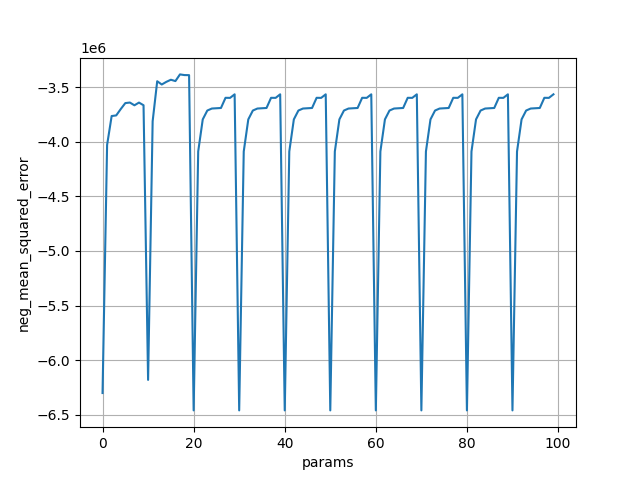
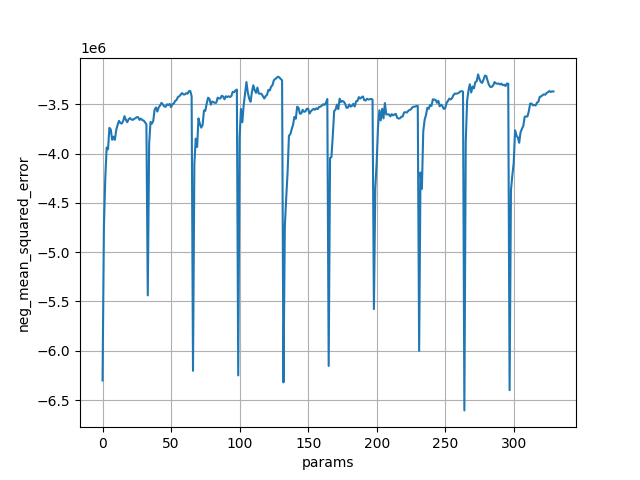
main-RF with evaluation

diff --git a/src/models/random_forest.py b/src/models/random_forest.py
@@ -36,11 +36,9 @@ def performGridSearch(X_train, y_train, param_grid, create_Plot = False, dataset
     return gs.best_params_
 
 def evaluatePerformanceOnCV(X_train: np.ndarray, y_train: np.ndarray, best_params: dict, datasetSuffix: str):
-    #TODO: perform cross validation on 3 folds and average the results, print (use printPerformance) the results to stdout and 
-    # then store them to logs/, visually inspect the results and rerun final training with best params and best dataset
-
     # 3-fold cross validation
-    results = []
+    results_mse = []
+    results_mae = []
     for train_index, test_index in ms.KFold(n_splits=3, shuffle=True, random_state=RANDOM_SEED).split(X_train):
         X_train_fold, X_val_fold = X_train[train_index], X_train[test_index]
         y_train_fold, y_val_fold = y_train[train_index], y_train[test_index]
@@ -52,11 +50,14 @@ def evaluatePerformanceOnCV(X_train: np.ndarray, y_train: np.ndarray, best_param
         # evaluate model
         y_pred = rf.predict(X_val_fold)
         mse = metrics.mean_squared_error(y_val_fold, y_pred)
-        results.append(mse)
+        mae = metrics.mean_absolute_error(y_val_fold, y_pred)
+        results_mse.append(mse)
+        results_mae.append(mae)
     
     # average results
-    avg_mse = np.mean(results)
-    print(f'{datasetSuffix} avg mse: ', avg_mse)
+    avg_mse = np.mean(results_mse)
+    avg_mae = np.mean(results_mae)
+    print(f'{datasetSuffix} average MSE: {avg_mse}, average MEA: {avg_mae}', )
 
 def plotBestParams(X_train: np.ndarray, y_train: np.ndarray):
     # param: max_features, best params: {'max_features': 21}
@@ -115,29 +116,19 @@ def print_index_of_origin_column(ft_imp, n):
     print('column index of   origin by order:            ', sorted(feature_column_idx))
     print('column index of   origin by order     unique: ', sorted(set(feature_column_idx)))
 
-def printPerformance(rf: RandomForestRegressor, X_test, y_test, columns: list):
-    n = rf.max_features
-    ft_imp = pd.Series(rf.feature_importances_, index=X_columns).sort_values(ascending=False)
-    feature_column_idx = [list(columns).index(feature) if feature in columns else None for feature in ft_imp[:n].index]
-    print(pd.DataFrame({
-        'pos':range(1, n+1),
-        'feature importance':ft_imp.head(n).round(3),
-        'column_index': feature_column_idx
-        }))
-    
-    print('column index of features by relevance: ', feature_column_idx[:n])
-    print('column index of features by order:     ', sorted(feature_column_idx[:n]))
-    print_index_of_origin_column(ft_imp, n)
-    
+def printPerformance(rf: RandomForestRegressor, X_test, y_test):
     y_pred = rf.predict(X_test)
     y_true = y_test
     print()
-    print('Accuracy:                                {:16.3f}'.format(rf.score(X_test, y_test)))
+    print('Performance of the best model on the test set:')
+    print('  Accuracy:                                {:16.3f}'.format(rf.score(X_test, y_test)))
     print()
-    print('Mean Squared Error (MSE):                {:16.2f}'.format(metrics.mean_squared_error(y_true, y_pred)))
-    print('Root Mean Squared Error (RMSE):          {:16.2f}'.format(metrics.mean_squared_error(y_true, y_pred, squared=False)))
-    print('Mean Absolute Error (MAE):               {:16.2f}'.format(metrics.mean_absolute_error(y_true, y_pred)))
-    print('R^2:                                     {:16.3f}'.format(metrics.r2_score(y_true, y_pred)))
+    print('  Mean Squared Error (MSE):                {:16.2f}'.format(metrics.mean_squared_error(y_true, y_pred)))
+    print('  Root Mean Squared Error (RMSE):          {:16.2f}'.format(metrics.mean_squared_error(y_true, y_pred, squared=False)))
+    print('  Mean Absolute Error (MAE):               {:16.2f}'.format(metrics.mean_absolute_error(y_true, y_pred)))
+    print('  R^2:                                     {:16.3f}'.format(metrics.r2_score(y_true, y_pred)))
+
+    return y_pred
     
 if __name__ == "__main__":
     os.makedirs("plots", exist_ok=True)
@@ -169,44 +160,43 @@ if __name__ == "__main__":
     X_test_mixed = test_mixed.drop(columns=target_columns).to_numpy()
     y_test_mixed = test_mixed[target_columns].to_numpy()
 
-    # TODO: specify meaningful parameter grid
     param_grid = {
-        'max_features': list(range(1, 101, 10)),
-        'n_estimators': list(range(1, 101, 10)),
+        'max_features': list(range(1, 11, 1)),
+        'n_estimators': list(range(1, 100, 3)),
     }
 
     # grid search and cross validation evaluation on all columns
     best_parameters = performGridSearch(X_train_mean, y_train_mean, param_grid, create_Plot=True, datasetSuffix='mean')
-    evaluatePerformanceOnCV(X_train_mean, y_train_mean, best_parameters, datasetSuffix='mean')
+    evaluatePerformanceOnCV(X_train_mean, y_train_mean, best_parameters, datasetSuffix='mean all columns')
     best_parameters = performGridSearch(X_train_median, y_train_median, param_grid, create_Plot=True, datasetSuffix='median')
-    evaluatePerformanceOnCV(X_train_median, y_train_median, best_parameters, datasetSuffix='median')
+    evaluatePerformanceOnCV(X_train_median, y_train_median, best_parameters, datasetSuffix='median all columns')
     best_parameters = performGridSearch(X_train_mixed, y_train_mixed, param_grid, create_Plot=True, datasetSuffix='mixed')
-    evaluatePerformanceOnCV(X_train_mixed, y_train_mixed, best_parameters, datasetSuffix='mixed')
+    evaluatePerformanceOnCV(X_train_mixed, y_train_mixed, best_parameters, datasetSuffix='mixed all columns')
 
     # grid search and cross validation evaluation on selected columns
-    selected_columns = ["CWUR_score", "Estimated_cost_of_living_per_year_(in_pounds)", "Minimum_IELTS_score",
-                        "Student_satisfaction", "UK_rank", "World_rank", "Student_enrollment_from", "Student_enrollment_to", 
-                        "International_students", "Academic_staff_from", "Academic_staff_to"]
-    X_train_mean = train_mean[selected_columns].to_numpy()
+    continuous_columns = ["CWUR_score", "Estimated_cost_of_living_per_year_(in_pounds)", "Minimum_IELTS_score",
+                          "Student_satisfaction", "UK_rank", "World_rank", "Student_enrollment_from", "Student_enrollment_to", 
+                          "International_students", "Academic_staff_from", "Academic_staff_to"]
+    X_train_mean = train_mean[continuous_columns].to_numpy()
     y_train_mean = train_mean[target_columns].to_numpy()
-    X_train_median = train_median[selected_columns].to_numpy()
+    X_train_median = train_median[continuous_columns].to_numpy()
     y_train_median = train_median[target_columns].to_numpy()
-    X_train_mixed = train_mixed[selected_columns].to_numpy()
+    X_train_mixed = train_mixed[continuous_columns].to_numpy()
     y_train_mixed = train_mixed[target_columns].to_numpy()
 
-    X_test_mean = test_mean[selected_columns].to_numpy()
+    X_test_mean = test_mean[continuous_columns].to_numpy()
     y_test_mean = test_mean[target_columns].to_numpy()
-    X_test_median = test_median[selected_columns].to_numpy()
+    X_test_median = test_median[continuous_columns].to_numpy()
     y_test_median = test_median[target_columns].to_numpy()
-    X_test_mixed = test_mixed[selected_columns].to_numpy()
+    X_test_mixed = test_mixed[continuous_columns].to_numpy()
     y_test_mixed = test_mixed[target_columns].to_numpy()
 
-    best_parameters = performGridSearch(X_train_mean, y_train_mean, param_grid, create_Plot=True, datasetSuffix='mean_selected')
-    evaluatePerformanceOnCV(X_train_mean, y_train_mean, best_parameters, datasetSuffix='mean_selected')
-    best_parameters = performGridSearch(X_train_median, y_train_median, param_grid, create_Plot=True, datasetSuffix='median_selected')
-    evaluatePerformanceOnCV(X_train_median, y_train_median, best_parameters, datasetSuffix='median_selected')
-    best_parameters = performGridSearch(X_train_mixed, y_train_mixed, param_grid, create_Plot=True, datasetSuffix='mixed_selected')
-    evaluatePerformanceOnCV(X_train_mixed, y_train_mixed, best_parameters, datasetSuffix='mixed_selected')
+    best_parameters = performGridSearch(X_train_mean, y_train_mean, param_grid, create_Plot=True, datasetSuffix='mean_continuous')
+    evaluatePerformanceOnCV(X_train_mean, y_train_mean, best_parameters, datasetSuffix='mean continuous columns')
+    best_parameters = performGridSearch(X_train_median, y_train_median, param_grid, create_Plot=True, datasetSuffix='median_continuous')
+    evaluatePerformanceOnCV(X_train_median, y_train_median, best_parameters, datasetSuffix='median continuous columns')
+    best_parameters = performGridSearch(X_train_mixed, y_train_mixed, param_grid, create_Plot=True, datasetSuffix='mixed_continuous')
+    evaluatePerformanceOnCV(X_train_mixed, y_train_mixed, best_parameters, datasetSuffix='mixed continuous columns')
 
     # grid search and cross validation evaluation on selected columns
     selected_columns = ["UK_rank", "World_rank", "CWUR_score", "Minimum_IELTS_score", "International_students", 
@@ -226,30 +216,32 @@ if __name__ == "__main__":
     X_test_mixed = test_mixed[selected_columns].to_numpy()
     y_test_mixed = test_mixed[target_columns].to_numpy()
 
-    best_parameters = performGridSearch(X_train_mean, y_train_mean, param_grid, create_Plot=True, datasetSuffix='mean_corr')
-    evaluatePerformanceOnCV(X_train_mean, y_train_mean, best_parameters, datasetSuffix='mean_corr')
-    best_parameters = performGridSearch(X_train_median, y_train_median, param_grid, create_Plot=True, datasetSuffix='median_corr')
-    evaluatePerformanceOnCV(X_train_median, y_train_median, best_parameters, datasetSuffix='median_corr')
-    best_parameters = performGridSearch(X_train_mixed, y_train_mixed, param_grid, create_Plot=True, datasetSuffix='mixed_corr')
-    evaluatePerformanceOnCV(X_train_mixed, y_train_mixed, best_parameters, datasetSuffix='mixed_corr')
-
-    # TODO: find the best parameters and best dataset and perform the final training and evaluation
+    best_parameters = performGridSearch(X_train_mean, y_train_mean, param_grid, create_Plot=True, datasetSuffix='mean_selected')
+    evaluatePerformanceOnCV(X_train_mean, y_train_mean, best_parameters, datasetSuffix='mean selected columns')
+    best_parameters = performGridSearch(X_train_median, y_train_median, param_grid, create_Plot=True, datasetSuffix='median_selected')
+    evaluatePerformanceOnCV(X_train_median, y_train_median, best_parameters, datasetSuffix='median selected columns')
+    best_parameters = performGridSearch(X_train_mixed, y_train_mixed, param_grid, create_Plot=True, datasetSuffix='mixed_selected')
+    evaluatePerformanceOnCV(X_train_mixed, y_train_mixed, best_parameters, datasetSuffix='mixed selected columns')
 
 
-    ## best params: {'max_features': 8}
-    ## best params: {'n_estimators': 29}
-    ## best params: {'max_features': 17, 'n_estimators': 37}
-    #plotBestParams(X_train, y_train)
-    #
-    #rf = RandomForestRegressor(max_features=10, n_estimators=80)
-    #rf.fit(X_train, y_train)
-#
-    #y_pred = rf.predict(X_test)
-    #printPerformance(rf, X_test, y_test, columns)
-#
-    ## crate a data frame with the results of the selected model
-    #predicted_truth = pd.DataFrame({"predicted UG_average_fees_(in_pounds)": y_pred[:, 0], "predicted PG_average_fees_(in_pounds)": y_pred[:, 1],
-    #                                "truth UG_average_fees_(in_pounds)": y_test[:, 0], "truth PG_average_fees_(in_pounds)": y_test[:, 1]})
-    #
-    ## print(predicted_truth)
-    #predicted_truth.to_csv("results/RF_predicted_truth.csv", index=False)
+    X_train_mixed = train_mixed[continuous_columns].to_numpy()
+    y_train_mixed = train_mixed[target_columns].to_numpy()
+    X_test_mixed = test_mixed[continuous_columns].to_numpy()
+    y_test_mixed = test_mixed[target_columns].to_numpy()
+
+    # fit RF with best parameters found during cross validation
+    rf = RandomForestRegressor(random_state=RANDOM_SEED, max_features=3, n_estimators=82)
+    rf.fit(X_train_mixed, y_train_mixed)
+
+    # evaluate performance on test set
+    y_pred = printPerformance(rf, X_test_mixed, y_test_mixed)
+
+    # crate a data frame with the results of the selected model
+    predicted_truth = pd.DataFrame({"predicted UG_average_fees_(in_pounds)": y_pred[:, 0], "predicted PG_average_fees_(in_pounds)": y_pred[:, 1],
+                                    "truth UG_average_fees_(in_pounds)": y_test_mixed[:, 0], "truth PG_average_fees_(in_pounds)": y_test_mixed[:, 1]})
+    
+    # print(predicted_truth)
+    print(predicted_truth)
+
+    # save the results
+    predicted_truth.to_csv("results/RF_predicted_truth.csv", index=False)
